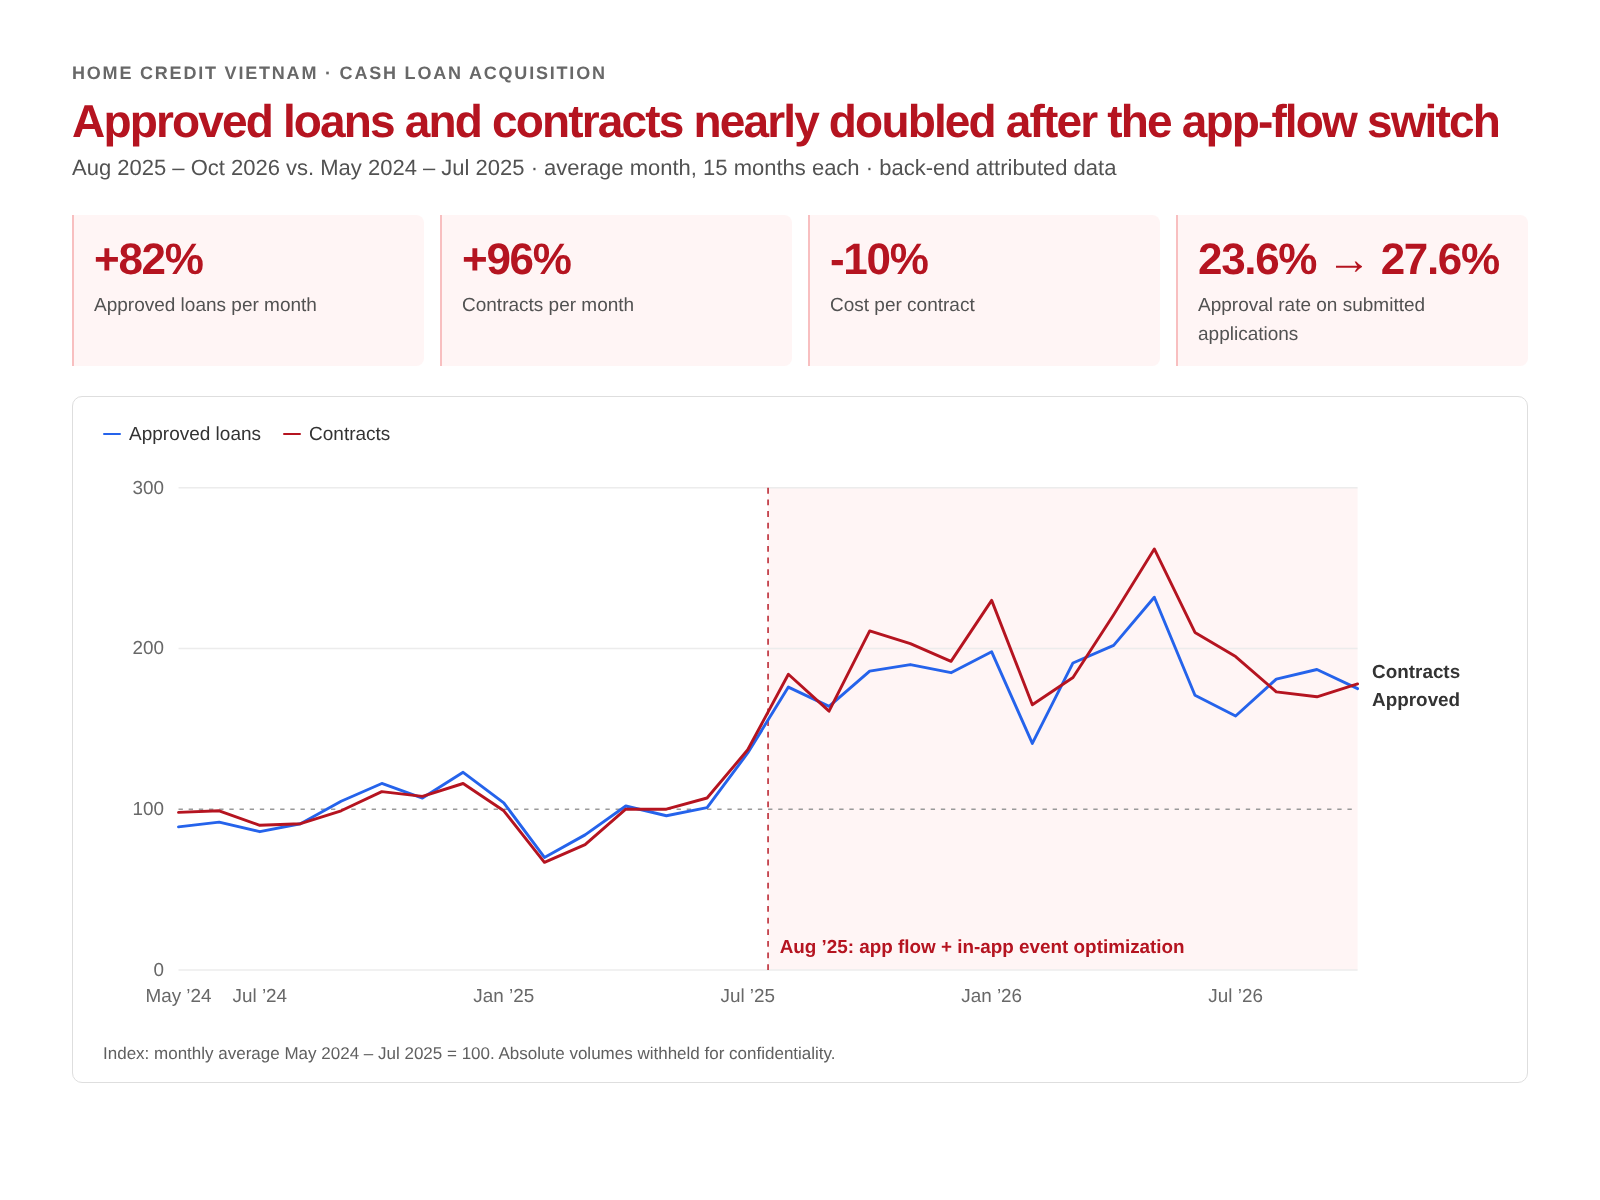
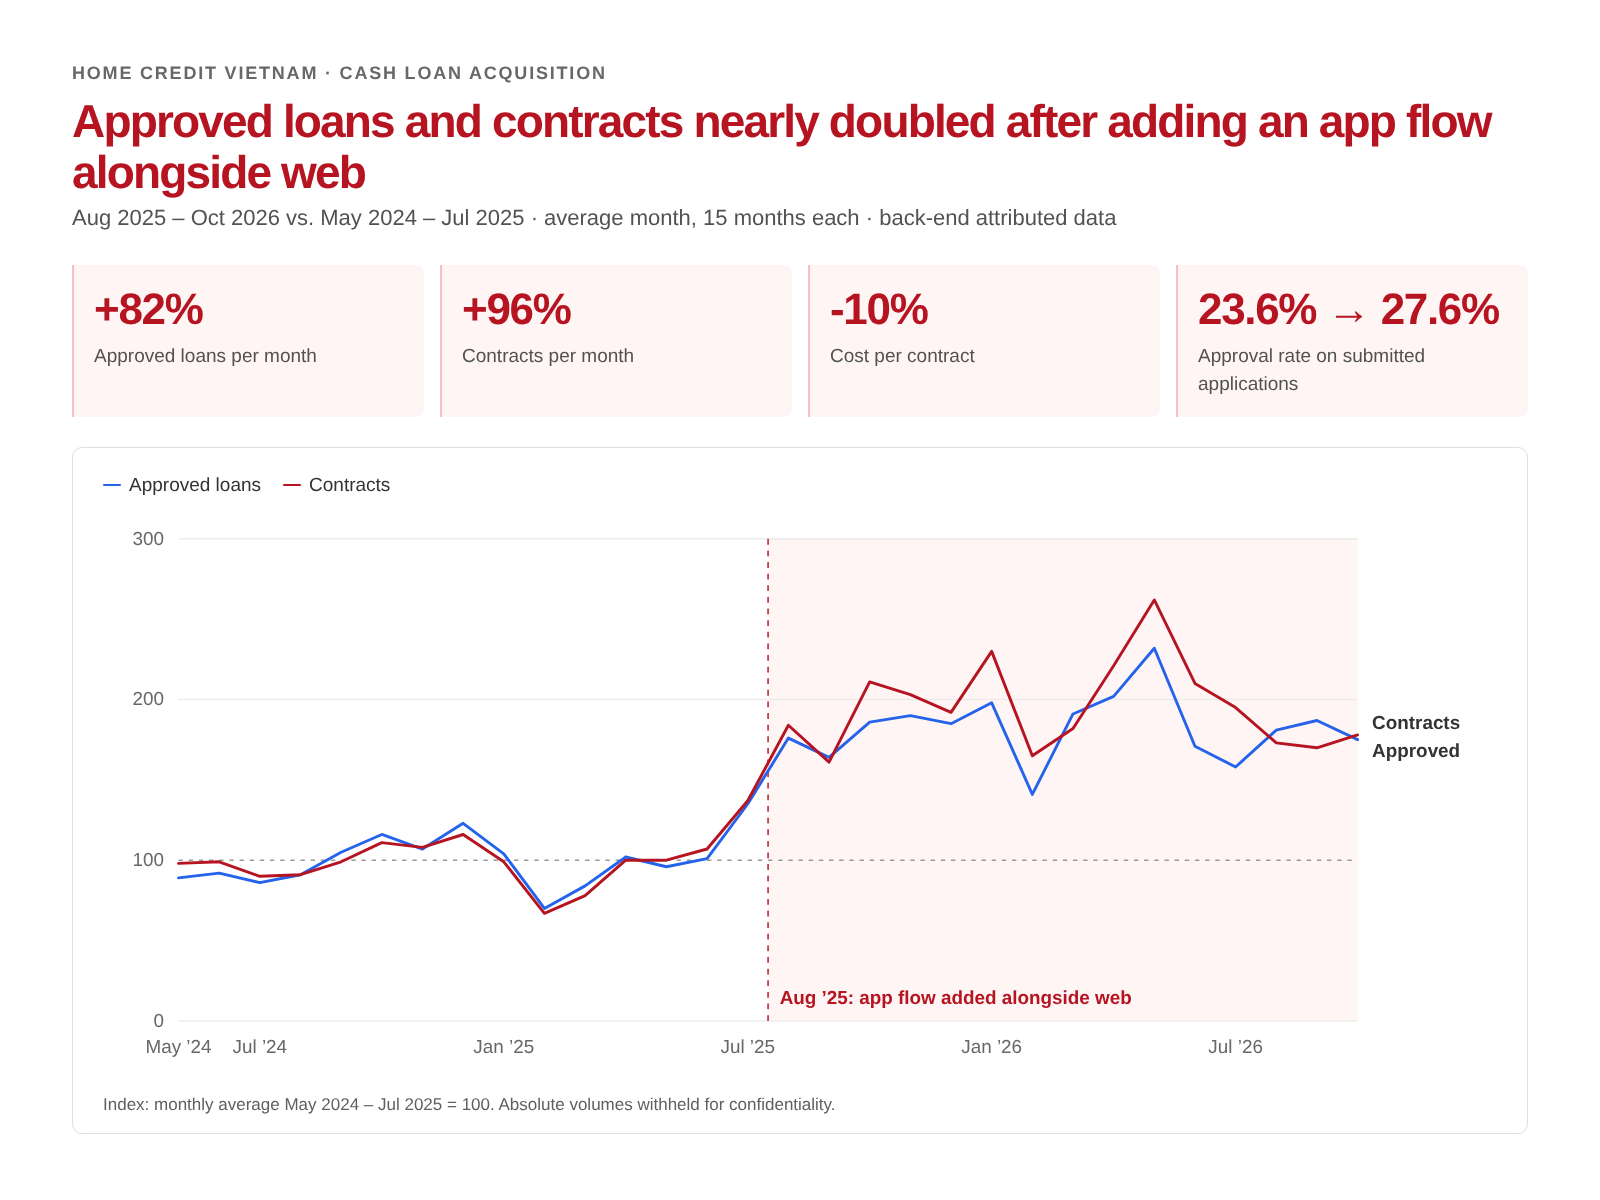
Clarify that the app flow runs alongside the web flow
Claude-Session: https://claude.ai/code/session_01XRtZDt8BXn8cHdpfRcY21h

diff --git a/homecredit-customer-acquisition.html b/homecredit-customer-acquisition.html
@@ -65,7 +65,7 @@
         <div><dt>Creative Variety Testing</dt><dd>With stakeholders, I built creative around product USPs, promotions and schemes, and benefit updates. We tested the angles and put more budget behind the winners.</dd></div>
 </dl></article>
 <article class="data-case"><span class="case-number">04 / EVIDENCE</span><h2>The Data Behind the Scale-Up</h2>
-      <p class="avene-copy">Back-end attributed data, May 2024 to October 2026. In August 2025 we started driving users into the app flow and optimizing on in-app events. From that month, approved loans (our qualified leads) and contracts both stepped up and stayed there, while the cost per contract went down.</p>
+      <p class="avene-copy">Back-end attributed data, May 2024 to October 2026. In August 2025 we added an app flow that runs alongside the existing web flow, and optimized it on in-app events. From that month, approved loans (our qualified leads) and contracts both stepped up and stayed there, while the cost per contract went down.</p>
       <div class="dc-stats">
         <div><strong>+82%</strong><span>Approved loans per month</span></div>
         <div><strong>+96%</strong><span>Contracts per month</span></div>
@@ -75,7 +75,7 @@
       <p class="dc-caption">Average month, Aug 2025 to Oct 2026 vs. May 2024 to Jul 2025 (15 months each). The budget grew 77% over the same period.</p>
       <figure class="dc-figure">
         <div class="dc-legend" aria-hidden="true"><span><i class="dc-key dc-a"></i>Approved loans</span><span><i class="dc-key dc-c"></i>Contracts</span></div>
-        <div class="dc-plot"><svg class="dc-svg" viewBox="0 0 960 400" role="img" aria-labelledby="dc-title dc-desc"><title id="dc-title">Monthly approved loans and contracts, indexed</title><desc id="dc-desc">Index where the monthly average from May 2024 to July 2025 equals 100. From August 2025 both lines rise to roughly double the earlier level.</desc><rect x="458.0" y="24" width="406.0" height="332" class="dc-after"/><line x1="52" x2="864" y1="356.0" y2="356.0" class="dc-grid"/><text x="42" y="360.0" class="dc-tick" text-anchor="end">0</text><line x1="52" x2="864" y1="245.3" y2="245.3" class="dc-base"/><text x="42" y="249.3" class="dc-tick" text-anchor="end">100</text><line x1="52" x2="864" y1="134.7" y2="134.7" class="dc-grid"/><text x="42" y="138.7" class="dc-tick" text-anchor="end">200</text><line x1="52" x2="864" y1="24.0" y2="24.0" class="dc-grid"/><text x="42" y="28.0" class="dc-tick" text-anchor="end">300</text><text x="52.0" y="378" class="dc-tick" text-anchor="middle">May ’24</text><text x="108.0" y="378" class="dc-tick" text-anchor="middle">Jul ’24</text><text x="276.0" y="378" class="dc-tick" text-anchor="middle">Jan ’25</text><text x="444.0" y="378" class="dc-tick" text-anchor="middle">Jul ’25</text><text x="612.0" y="378" class="dc-tick" text-anchor="middle">Jan ’26</text><text x="780.0" y="378" class="dc-tick" text-anchor="middle">Jul ’26</text><line x1="458.0" x2="458.0" y1="24" y2="356" class="dc-marker"/><text x="466.0" y="344" class="dc-note">Aug ’25: app flow + in-app event optimization</text><path d="M52.0,257.5 L80.0,254.2 L108.0,260.8 L136.0,255.3 L164.0,239.8 L192.0,227.6 L220.0,237.6 L248.0,219.9 L276.0,240.9 L304.0,278.5 L332.0,263.0 L360.0,243.1 L388.0,249.8 L416.0,244.2 L444.0,206.6 L472.0,161.2 L500.0,174.5 L528.0,150.2 L556.0,145.7 L584.0,151.3 L612.0,136.9 L640.0,200.0 L668.0,144.6 L696.0,132.5 L724.0,99.3 L752.0,166.8 L780.0,181.1 L808.0,155.7 L836.0,149.1 L864.0,162.3" class="dc-line dc-a"/><path d="M52.0,247.5 L80.0,246.4 L108.0,256.4 L136.0,255.3 L164.0,246.4 L192.0,233.2 L220.0,236.5 L248.0,227.6 L276.0,246.4 L304.0,281.9 L332.0,269.7 L360.0,245.3 L388.0,245.3 L416.0,237.6 L444.0,204.4 L472.0,152.4 L500.0,177.8 L528.0,122.5 L556.0,131.3 L584.0,143.5 L612.0,101.5 L640.0,173.4 L668.0,154.6 L696.0,111.4 L724.0,66.1 L752.0,123.6 L780.0,140.2 L808.0,164.5 L836.0,167.9 L864.0,159.0" class="dc-line dc-c"/><text x="874.0" y="155.0" class="dc-label">Contracts</text><text x="874.0" y="174.3" class="dc-label">Approved</text><line class="dc-cross" x1="0" x2="0" y1="24" y2="356" hidden/><circle class="dc-dot dc-a" r="4.5" hidden/><circle class="dc-dot dc-c" r="4.5" hidden/><rect class="dc-hit" x="52" y="24" width="812" height="332"/></svg><div class="dc-tip" hidden></div></div>
+        <div class="dc-plot"><svg class="dc-svg" viewBox="0 0 960 400" role="img" aria-labelledby="dc-title dc-desc"><title id="dc-title">Monthly approved loans and contracts, indexed</title><desc id="dc-desc">Index where the monthly average from May 2024 to July 2025 equals 100. From August 2025 both lines rise to roughly double the earlier level.</desc><rect x="458.0" y="24" width="406.0" height="332" class="dc-after"/><line x1="52" x2="864" y1="356.0" y2="356.0" class="dc-grid"/><text x="42" y="360.0" class="dc-tick" text-anchor="end">0</text><line x1="52" x2="864" y1="245.3" y2="245.3" class="dc-base"/><text x="42" y="249.3" class="dc-tick" text-anchor="end">100</text><line x1="52" x2="864" y1="134.7" y2="134.7" class="dc-grid"/><text x="42" y="138.7" class="dc-tick" text-anchor="end">200</text><line x1="52" x2="864" y1="24.0" y2="24.0" class="dc-grid"/><text x="42" y="28.0" class="dc-tick" text-anchor="end">300</text><text x="52.0" y="378" class="dc-tick" text-anchor="middle">May ’24</text><text x="108.0" y="378" class="dc-tick" text-anchor="middle">Jul ’24</text><text x="276.0" y="378" class="dc-tick" text-anchor="middle">Jan ’25</text><text x="444.0" y="378" class="dc-tick" text-anchor="middle">Jul ’25</text><text x="612.0" y="378" class="dc-tick" text-anchor="middle">Jan ’26</text><text x="780.0" y="378" class="dc-tick" text-anchor="middle">Jul ’26</text><line x1="458.0" x2="458.0" y1="24" y2="356" class="dc-marker"/><text x="466.0" y="344" class="dc-note">Aug ’25: app flow added alongside web</text><path d="M52.0,257.5 L80.0,254.2 L108.0,260.8 L136.0,255.3 L164.0,239.8 L192.0,227.6 L220.0,237.6 L248.0,219.9 L276.0,240.9 L304.0,278.5 L332.0,263.0 L360.0,243.1 L388.0,249.8 L416.0,244.2 L444.0,206.6 L472.0,161.2 L500.0,174.5 L528.0,150.2 L556.0,145.7 L584.0,151.3 L612.0,136.9 L640.0,200.0 L668.0,144.6 L696.0,132.5 L724.0,99.3 L752.0,166.8 L780.0,181.1 L808.0,155.7 L836.0,149.1 L864.0,162.3" class="dc-line dc-a"/><path d="M52.0,247.5 L80.0,246.4 L108.0,256.4 L136.0,255.3 L164.0,246.4 L192.0,233.2 L220.0,236.5 L248.0,227.6 L276.0,246.4 L304.0,281.9 L332.0,269.7 L360.0,245.3 L388.0,245.3 L416.0,237.6 L444.0,204.4 L472.0,152.4 L500.0,177.8 L528.0,122.5 L556.0,131.3 L584.0,143.5 L612.0,101.5 L640.0,173.4 L668.0,154.6 L696.0,111.4 L724.0,66.1 L752.0,123.6 L780.0,140.2 L808.0,164.5 L836.0,167.9 L864.0,159.0" class="dc-line dc-c"/><text x="874.0" y="155.0" class="dc-label">Contracts</text><text x="874.0" y="174.3" class="dc-label">Approved</text><line class="dc-cross" x1="0" x2="0" y1="24" y2="356" hidden/><circle class="dc-dot dc-a" r="4.5" hidden/><circle class="dc-dot dc-c" r="4.5" hidden/><rect class="dc-hit" x="52" y="24" width="812" height="332"/></svg><div class="dc-tip" hidden></div></div>
         <figcaption>Index: monthly average May 2024 – Jul 2025 = 100. Absolute volumes are withheld for confidentiality.</figcaption>
         <details class="dc-table"><summary>View data table</summary><table><thead><tr><th>Month</th><th>Approved (index)</th><th>Contracts (index)</th></tr></thead><tbody><tr><td>May ’24</td><td>89</td><td>98</td></tr><tr><td>Jun ’24</td><td>92</td><td>99</td></tr><tr><td>Jul ’24</td><td>86</td><td>90</td></tr><tr><td>Aug ’24</td><td>91</td><td>91</td></tr><tr><td>Sep ’24</td><td>105</td><td>99</td></tr><tr><td>Oct ’24</td><td>116</td><td>111</td></tr><tr><td>Nov ’24</td><td>107</td><td>108</td></tr><tr><td>Dec ’24</td><td>123</td><td>116</td></tr><tr><td>Jan ’25</td><td>104</td><td>99</td></tr><tr><td>Feb ’25</td><td>70</td><td>67</td></tr><tr><td>Mar ’25</td><td>84</td><td>78</td></tr><tr><td>Apr ’25</td><td>102</td><td>100</td></tr><tr><td>May ’25</td><td>96</td><td>100</td></tr><tr><td>Jun ’25</td><td>101</td><td>107</td></tr><tr><td>Jul ’25</td><td>135</td><td>137</td></tr><tr><td>Aug ’25</td><td>176</td><td>184</td></tr><tr><td>Sep ’25</td><td>164</td><td>161</td></tr><tr><td>Oct ’25</td><td>186</td><td>211</td></tr><tr><td>Nov ’25</td><td>190</td><td>203</td></tr><tr><td>Dec ’25</td><td>185</td><td>192</td></tr><tr><td>Jan ’26</td><td>198</td><td>230</td></tr><tr><td>Feb ’26</td><td>141</td><td>165</td></tr><tr><td>Mar ’26</td><td>191</td><td>182</td></tr><tr><td>Apr ’26</td><td>202</td><td>221</td></tr><tr><td>May ’26</td><td>232</td><td>262</td></tr><tr><td>Jun ’26</td><td>171</td><td>210</td></tr><tr><td>Jul ’26</td><td>158</td><td>195</td></tr><tr><td>Aug ’26</td><td>181</td><td>173</td></tr><tr><td>Sep ’26</td><td>187</td><td>170</td></tr><tr><td>Oct ’26</td><td>175</td><td>178</td></tr></tbody></table></details>
       </figure>
@@ -84,9 +84,9 @@
 <article><span class="case-number">05 / IMPACT</span><h2>Results &amp; Learnings</h2><dl class="project-points">
         <div><dt>+41% Cash Loan contracts: 65K through September 2026 vs. 46K in all of 2025</dt><dd>Total Cash Loan contracts reached 65K in the first nine months of 2026, already above the 46K of the whole of 2025. Marketing also set a record month of 8,160 contracts, against a previous average of about 3,900.</dd></div>
         <div><dt>Over 10% of total marketing budget saved</dt><dd>Tuning creative and audiences in the app flow got us to KPI earlier than planned, which saved over 10% of the total marketing budget.</dd></div>
-        <div><dt>New app flow now delivers over 80% of contracts</dt><dd>Until June 2025 the program ran almost entirely on the web flow, through Google SEM and Performance Max. I added an app flow, which now brings in over 80% of contracts.</dd></div>
+        <div><dt>New app flow now delivers over 80% of contracts</dt><dd>Until June 2025 the program ran almost entirely on the web flow, through Google SEM and Performance Max. I added an app flow that runs alongside the web flow, and it now brings in over 80% of contracts.</dd></div>
 </dl>
-<p class="key-learning"><strong>Key learning:</strong> the biggest gain came from changing where people convert, not from tuning bids. The app flow I added to a web-only program now accounts for over 80% of contracts.</p></article>
+<p class="key-learning"><strong>Key learning:</strong> the biggest gain came from opening a second place to convert, not from tuning bids. The app flow I added alongside the web flow now accounts for over 80% of contracts.</p></article>
 </div>
 </section>
 </main>
